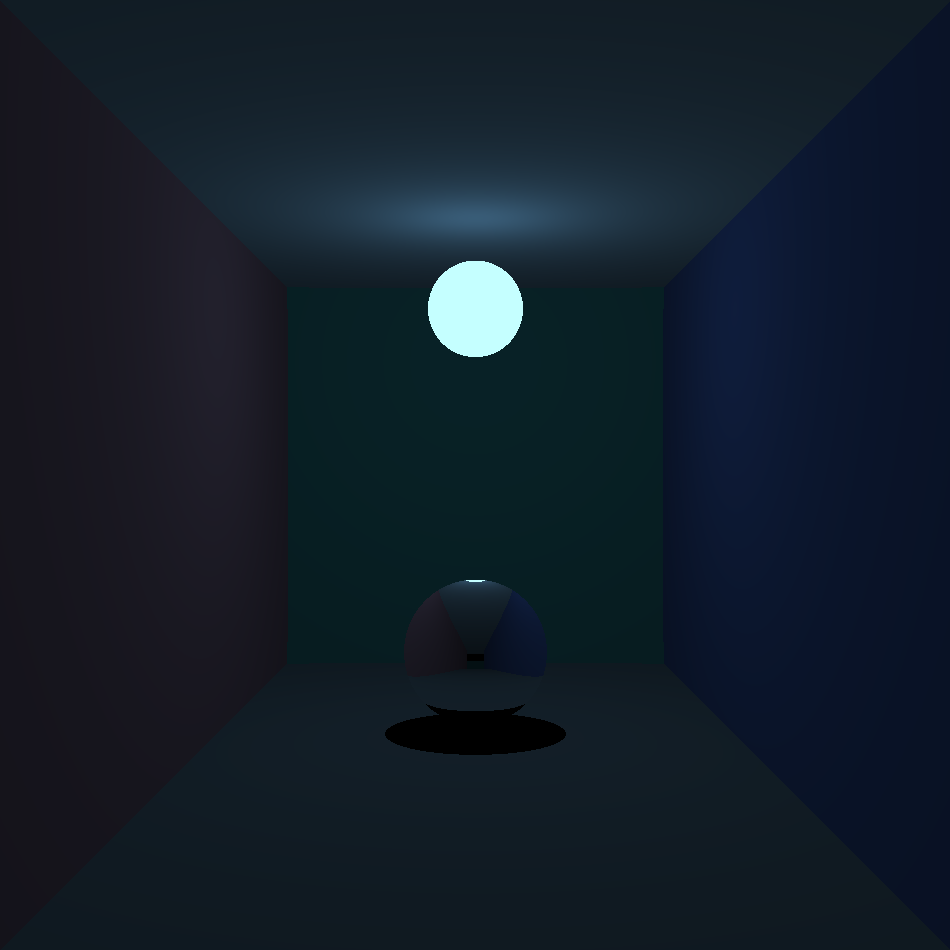
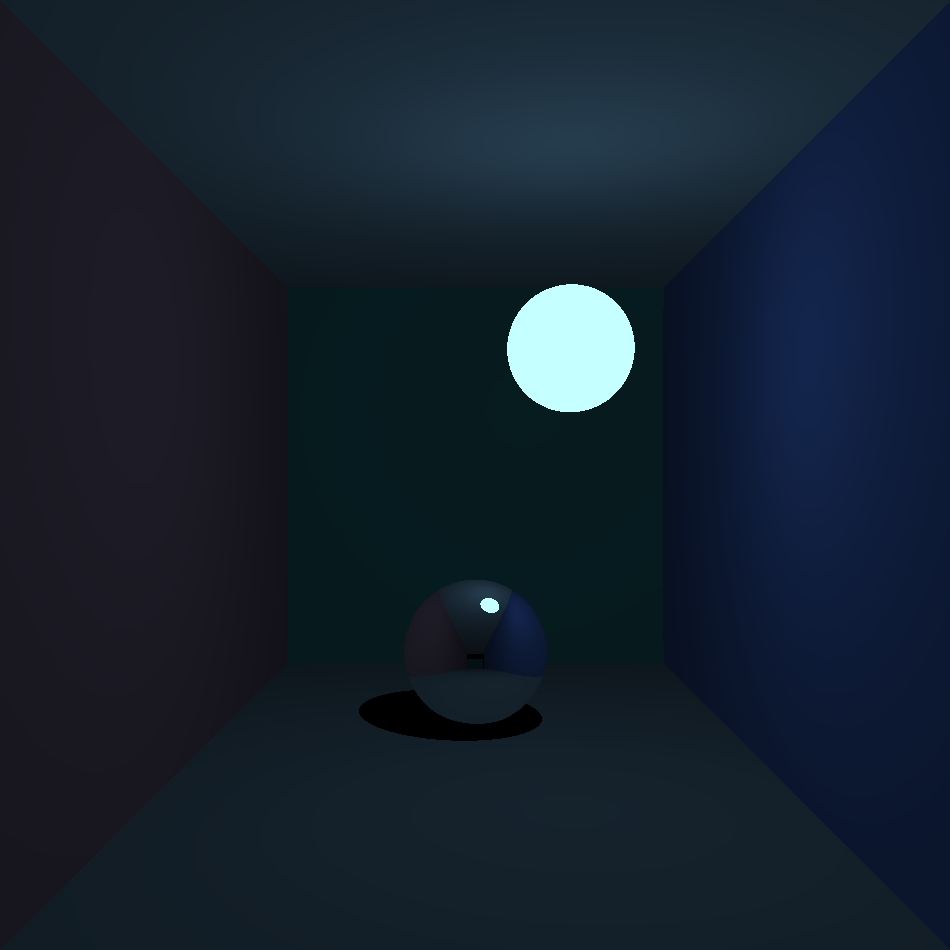
dump all changes

diff --git a/src/main/java/org/piotrwyrw/heptane/ui/Viewer.java b/src/main/java/org/piotrwyrw/heptane/ui/Viewer.java
@@ -2,16 +2,21 @@ package org.piotrwyrw.heptane.ui;
 
 import org.piotrwyrw.heptane.Heptane;
 import org.piotrwyrw.heptane.engine.Scene;
+import org.piotrwyrw.heptane.engine.Vector;
+import org.piotrwyrw.heptane.shapes.Shader;
 import org.piotrwyrw.heptane.shapes.Sphere;
 
 import javax.swing.*;
 import java.awt.*;
+import java.util.concurrent.atomic.AtomicReference;
+
 public class Viewer extends JPanel {
 
     public Viewer() {
         super();
         new Thread(() -> {
             Scene s = Heptane.getScene();
+            AtomicReference<Double> angle = new AtomicReference<>(0.0);
             while (true) {
                 repaint();
                 s.render();

diff --git a/src/main/java/org/piotrwyrw/heptane/Heptane.java b/src/main/java/org/piotrwyrw/heptane/Heptane.java
@@ -50,7 +50,7 @@ public class Heptane {
         s.add(new Sphere(new Vector(0.0, 3.7, 20.0), 1.5, Color.gray, Vector.zero(), Shader.MIRROR));
 
         // Ceiling lamp
-        s.add(new Sphere(new Vector(0.0, -3.5, 20.0), 1.0, Color.decode("#0984e3"), Vector.zero(), Shader.LAMP));
+        s.add(new Sphere(new Vector(1.5, -2.0, 15.0), 1.0, Color.decode("#0984e3"), Vector.zero(), Shader.LAMP));
 
         new Interface();
     }
